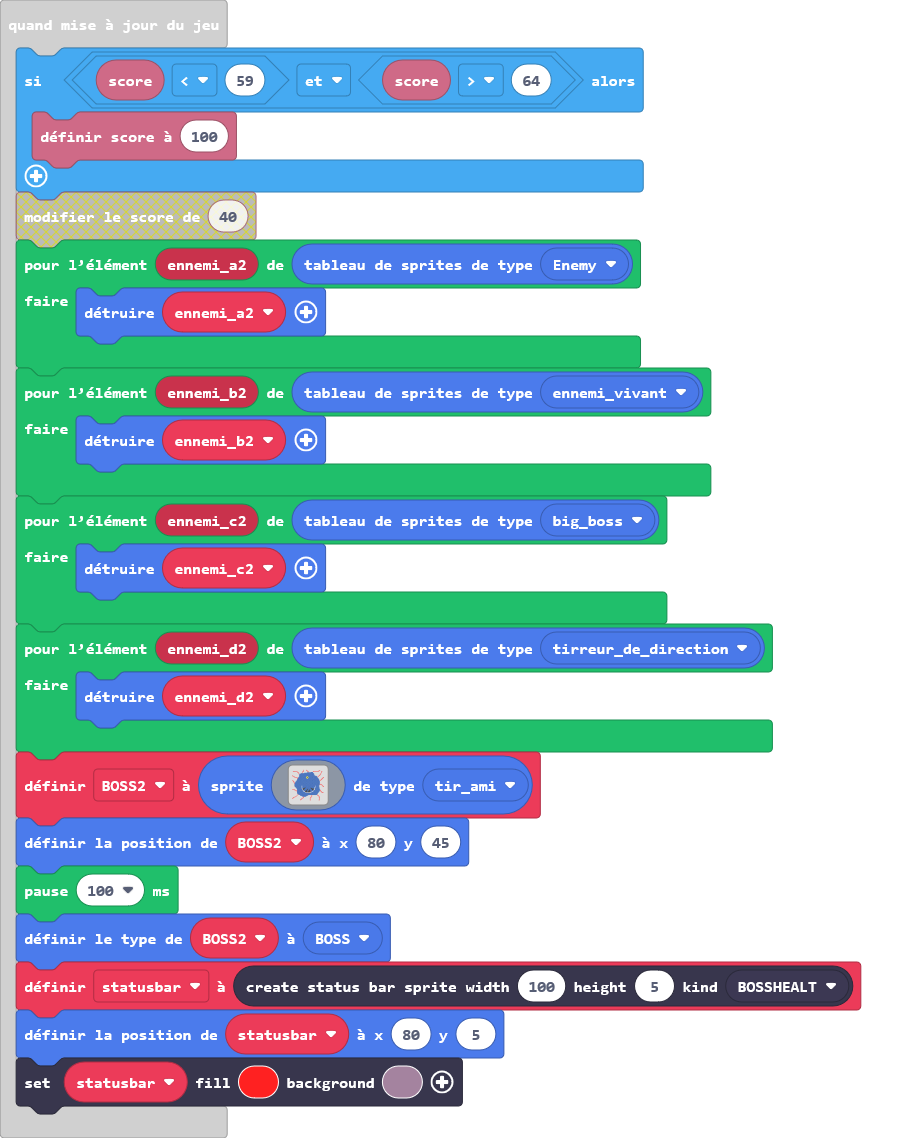
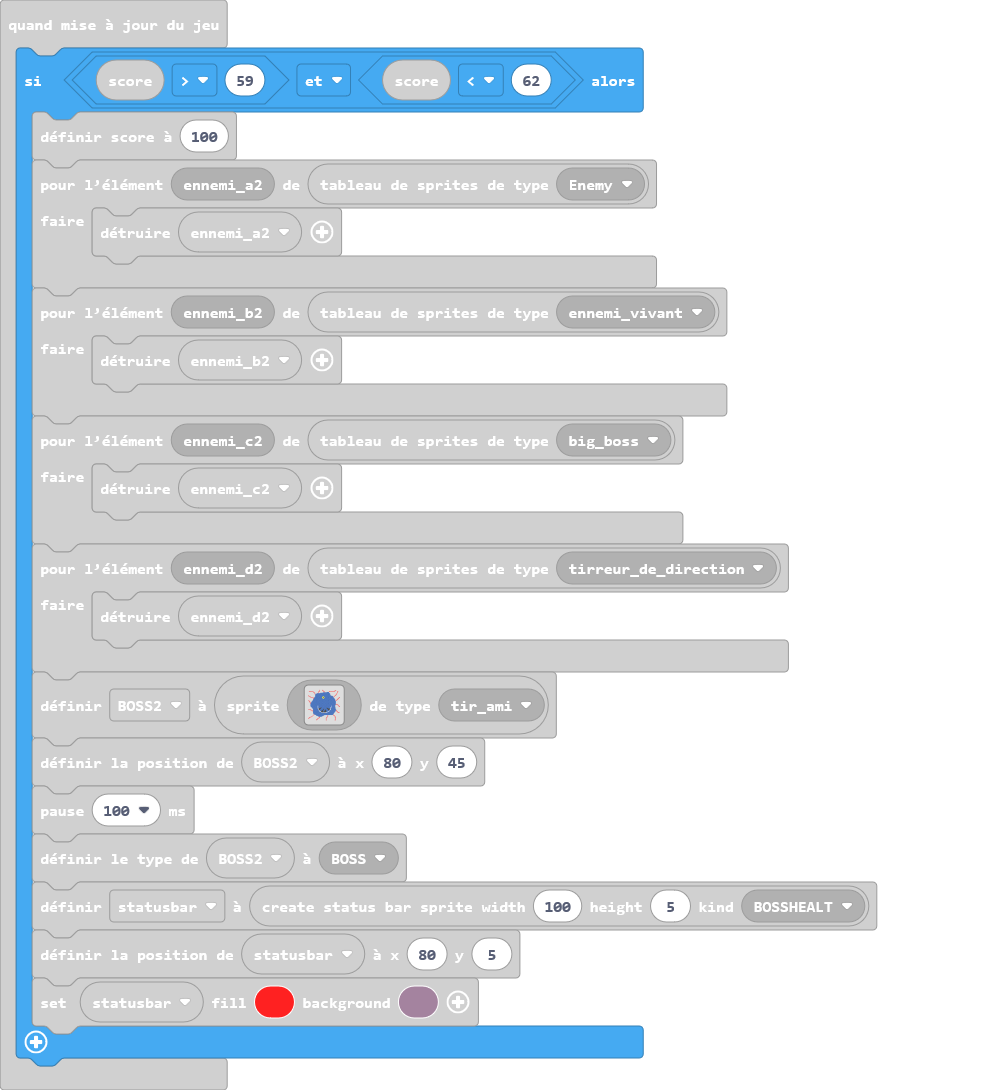
Mise à jour pxt.json, main.blocks, main.ts

diff --git a/main.ts b/main.ts
@@ -165,7 +165,7 @@ game.onUpdate(function () {
     }
 })
 game.onUpdate(function () {
-    if (info.score() < 59 && info.score() > 64) {
+    if (info.score() > 59 && info.score() < 62) {
         info.setScore(100)
         for (let ennemi_a2 of sprites.allOfKind(SpriteKind.Enemy)) {
             ennemi_a2.destroy()
